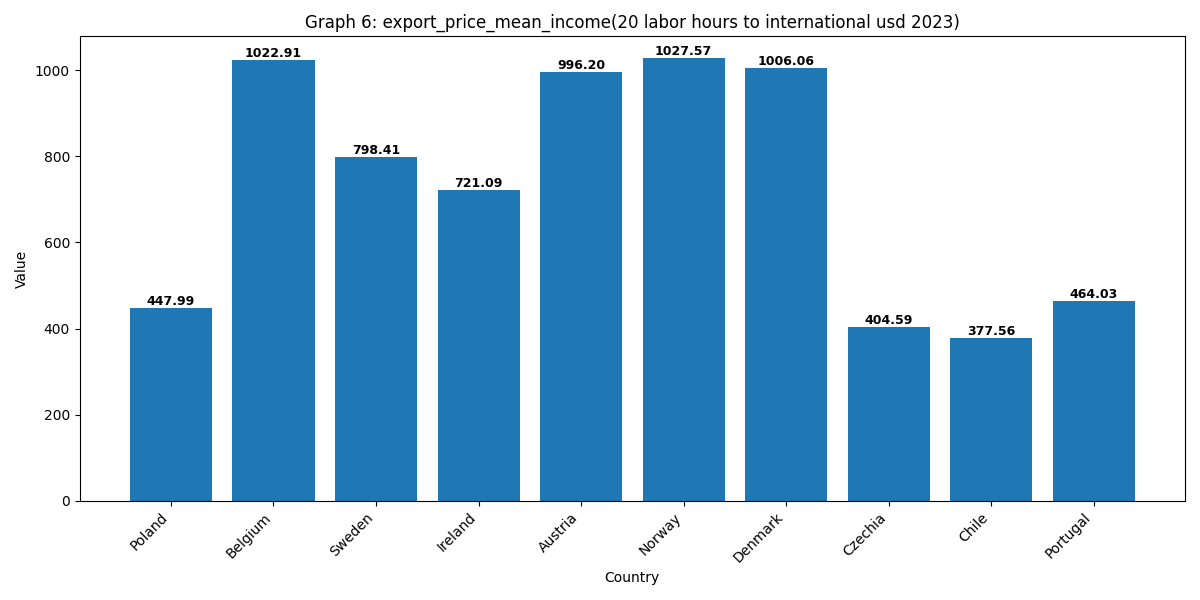
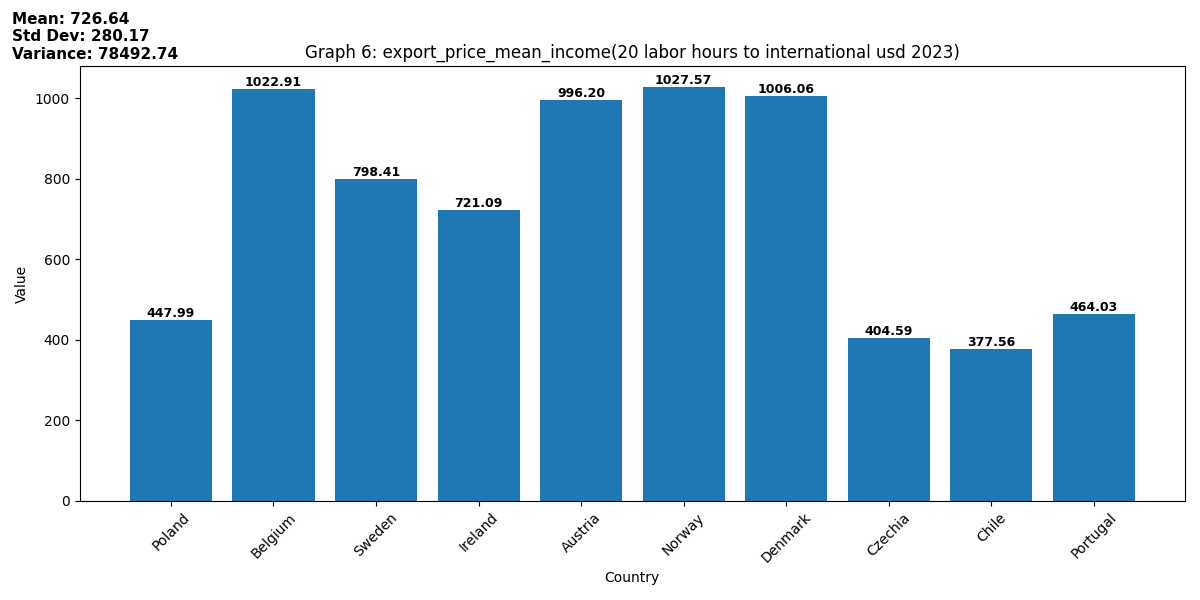
Prints mean, standard deviation, and variance.

diff --git a/MELT Conversion Models/scripts/graph.py b/MELT Conversion Models/scripts/graph.py
@@ -18,20 +18,26 @@ columns_to_plot = [
 # Output folder
 os.makedirs("graphs", exist_ok=True)
 
-# Create bar charts
+# Create graphs 
 for idx, column in enumerate(columns_to_plot, start=1):
     for i in range(2):  # First 10, Next 10
         subset = df.iloc[i*10:(i+1)*10]
         countries = subset["country_name"]
         values = subset[column]
 
-        plt.figure(figsize=(12, 6))
-        bars = plt.bar(countries, values)
+        # Compute stats
+        std_dev = values.std(skipna=True)
+        mean_val = values.mean(skipna=True)
+        var_val = values.var(skipna=True)
 
-        # Add value labels on top of each bar
+        # Create plot
+        fig, ax = plt.subplots(figsize=(12, 6))
+        bars = ax.bar(countries, values)
+
+        # Add value labels on top of bars
         for bar in bars:
             height = bar.get_height()
-            plt.text(
+            ax.text(
                 bar.get_x() + bar.get_width() / 2,
                 height,
                 f"{height:.2f}",
@@ -41,10 +47,22 @@ for idx, column in enumerate(columns_to_plot, start=1):
                 fontweight='bold'
             )
 
-        plt.xlabel("Country")
-        plt.ylabel("Value")
-        plt.title(f"Graph {idx*2 - 1 + i}: {column}")
-        plt.xticks(rotation=45, ha="right")
-        plt.tight_layout()
+        # Add stats text 
+        fig.text(
+            0.01, 0.98,
+            f"Mean: {mean_val:.2f}\nStd Dev: {std_dev:.2f}\nVariance: {var_val:.2f}",
+            ha='left',
+            va='top',
+            fontsize=11,
+            color='black',
+            fontweight='bold'
+        )
+
+        ax.set_xlabel("Country")
+        ax.set_ylabel("Value")
+        ax.set_title(f"Graph {idx*2 - 1 + i}: {column}")
+        ax.tick_params(axis='x', rotation=45)
+        fig.tight_layout(rect=[0, 0, 1, 0.95])  # Leave space at top for text
+
         plt.savefig(f"graphs/graph_{idx*2 - 1 + i}.png")
         plt.close()
